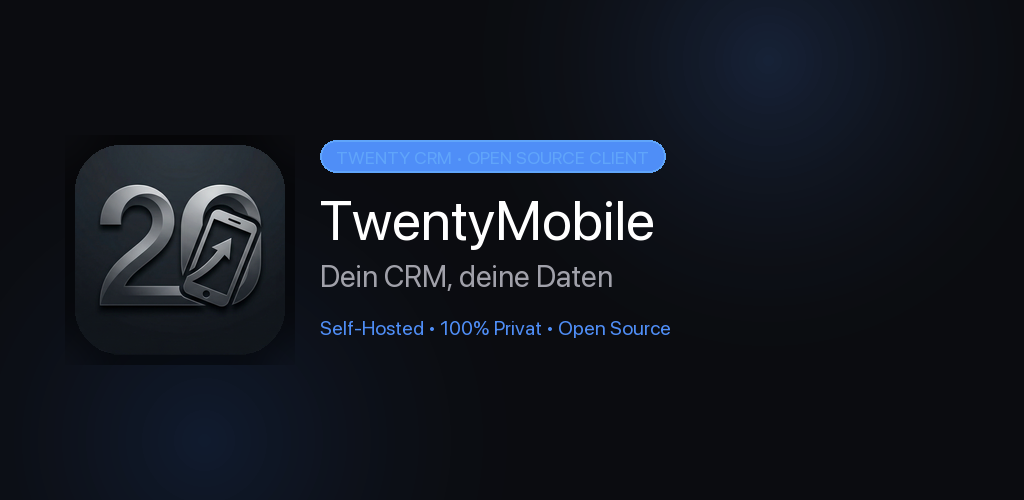
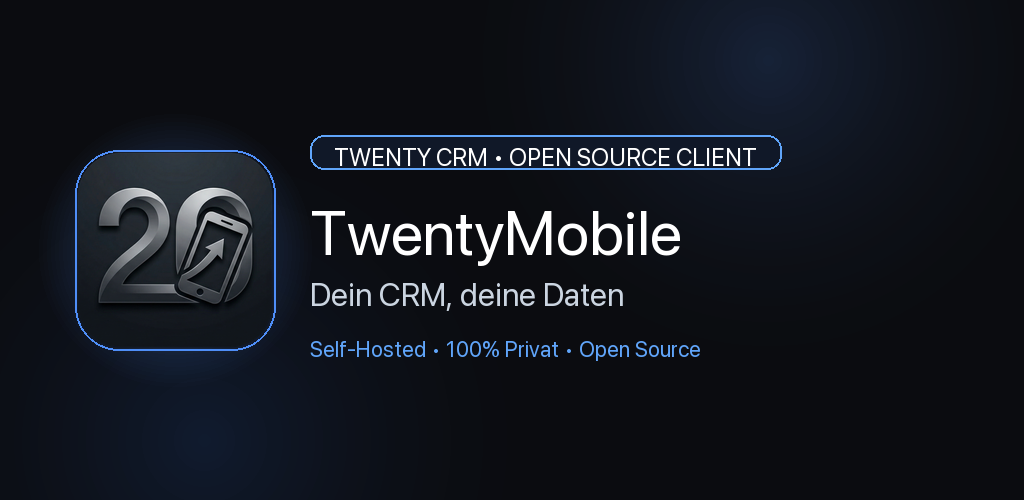
fix(store): perfeziona featureGraphic (rimuovi contorno nero, aumenta visibilità badge Twenty CRM)

diff --git a/scripts/store/generate_mockups.py b/scripts/store/generate_mockups.py
@@ -703,36 +703,79 @@ def generate_feature_graphic(loc_dir, copy_item, icon_src):
     w, h = 1024, 500
     fg = create_twenty_gradient(w, h)
     
-    icon_img = Image.open(icon_src).convert("RGBA")
-    icon_img = icon_img.resize((210, 210), Image.Resampling.LANCZOS)
-    icon_img = add_rounded_corners(icon_img, 46)
+    # Pulizia dell'icona: elimina bordi bianchi esterni tramite maschera pulita
+    icon_master = Image.open(icon_src).convert("RGBA")
+    mask = Image.new("L", icon_master.size, 0)
+    m_draw = ImageDraw.Draw(mask)
+    inset = 14
+    rad = int((icon_master.width - inset * 2) * 0.22)
+    m_draw.rounded_rectangle(
+        [inset, inset, icon_master.width - inset, icon_master.height - inset],
+        radius=rad, fill=255
+    )
+    icon_clean = Image.new("RGBA", icon_master.size, (0, 0, 0, 0))
+    icon_clean.paste(icon_master, (0, 0), mask)
     
-    shadow = Image.new("RGBA", (230, 230), (0, 0, 0, 0))
-    s_draw = ImageDraw.Draw(shadow)
-    s_draw.rounded_rectangle([0, 0, 230, 230], radius=50, fill=(0, 0, 0, 120))
-    shadow = shadow.filter(ImageFilter.GaussianBlur(radius=15))
+    icon_sz = 200
+    icon_img = icon_clean.resize((icon_sz, icon_sz), Image.Resampling.LANCZOS)
+    icon_pos = (75, 150)
     
+    # Bagliore luminoso Twenty CRM centrato dietro all'icona (nessun contorno nero)
+    glow = Image.new("RGBA", (w, h), (0, 0, 0, 0))
+    g_draw = ImageDraw.Draw(glow)
+    cx, cy = icon_pos[0] + icon_sz // 2, icon_pos[1] + icon_sz // 2
+    for r in range(140, 80, -4):
+        alpha = int(45 * ((140 - r) / 60.0))
+        g_draw.ellipse([cx - r, cy - r, cx + r, cy + r], fill=(79, 142, 247, alpha))
+        
     fg_rgba = fg.convert("RGBA")
-    fg_rgba.paste(shadow, (65, 135), shadow)
-    fg_rgba.paste(icon_img, (75, 145), icon_img)
+    fg_rgba = Image.alpha_composite(fg_rgba, glow)
     
+    # Incolla l'icona con un bordo satinato elegante
+    fg_rgba.paste(icon_img, icon_pos, icon_img)
     draw = ImageDraw.Draw(fg_rgba)
+    icon_rad = int(icon_sz * 0.22)
+    draw.rounded_rectangle(
+        [icon_pos[0], icon_pos[1], icon_pos[0] + icon_sz, icon_pos[1] + icon_sz],
+        radius=icon_rad,
+        outline=(79, 142, 247, 190),
+        width=2
+    )
     
-    b_font = get_font(18, bold=True)
+    # 1. Badge "TWENTY CRM • OPEN SOURCE CLIENT"
+    # Grande (24px), nitido, ad alto contrasto su pillola navy satinata
+    b_font = get_font(24, bold=True)
     badge_text = "TWENTY CRM • OPEN SOURCE CLIENT"
     b_bbox = draw.textbbox((0, 0), badge_text, font=b_font)
     b_w = b_bbox[2] - b_bbox[0]
-    draw.rounded_rectangle([320, 140, 320 + b_w + 32, 172], radius=16, fill=(79, 142, 247, 45), outline=(96, 165, 250, 160), width=2)
-    draw.text((336, 146), badge_text, font=b_font, fill=(96, 165, 250))
+    b_h = b_bbox[3] - b_bbox[1]
     
-    t_font = get_font(56, bold=True)
-    draw.text((320, 185), copy_item["fg_title"], font=t_font, fill=(255, 255, 255))
+    bx = 310
+    by = 135
+    b_pad_h = 24
+    b_pad_v = 8
+    badge_rect = [bx, by, bx + b_w + b_pad_h * 2, by + b_h + b_pad_v * 2]
     
-    s_font = get_font(30, bold=False)
-    draw.text((320, 258), copy_item["fg_sub"], font=s_font, fill=(161, 161, 170))
+    draw.rounded_rectangle(
+        badge_rect,
+        radius=14,
+        fill=(16, 24, 40, 245),
+        outline=(96, 165, 250, 255),
+        width=2
+    )
+    draw.text((bx + b_pad_h, by + b_pad_v - 1), badge_text, font=b_font, fill=(255, 255, 255))
     
-    f_font = get_font(20, bold=True)
-    draw.text((320, 315), copy_item["fg_badge"], font=f_font, fill=(79, 142, 247))
+    # 2. Titolo "TwentyMobile"
+    t_font = get_font(62, bold=True)
+    draw.text((310, 195), copy_item["fg_title"], font=t_font, fill=(255, 255, 255))
+    
+    # 3. Sottotitolo
+    s_font = get_font(32, bold=False)
+    draw.text((310, 275), copy_item["fg_sub"], font=s_font, fill=(203, 213, 225))
+    
+    # 4. Feature points in basso
+    f_font = get_font(22, bold=True)
+    draw.text((310, 335), copy_item["fg_badge"], font=f_font, fill=(96, 165, 250))
     
     out_png = loc_dir / "featureGraphic.png"
     fg_rgba.convert("RGB").save(out_png, "PNG", optimize=True)
